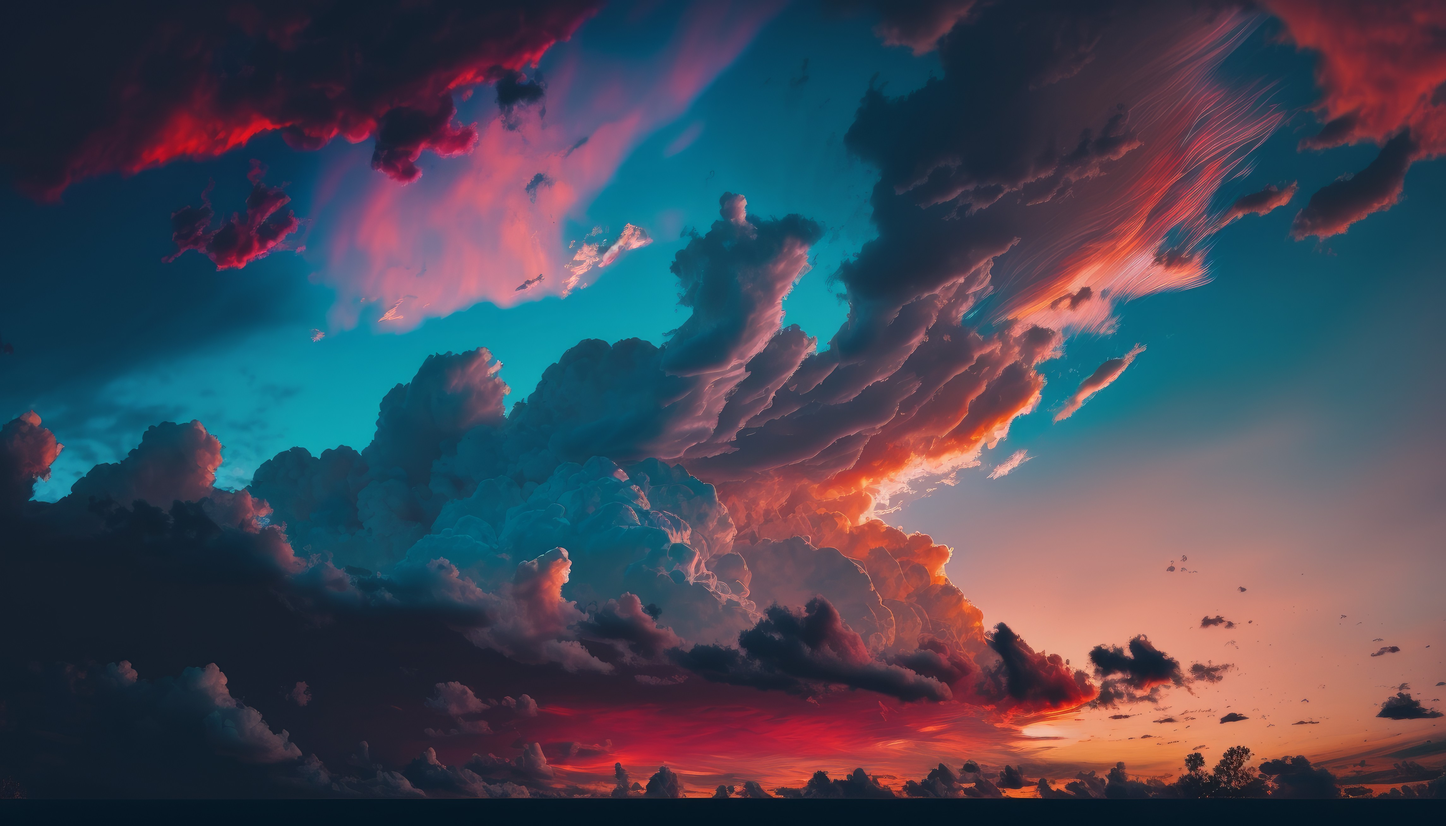
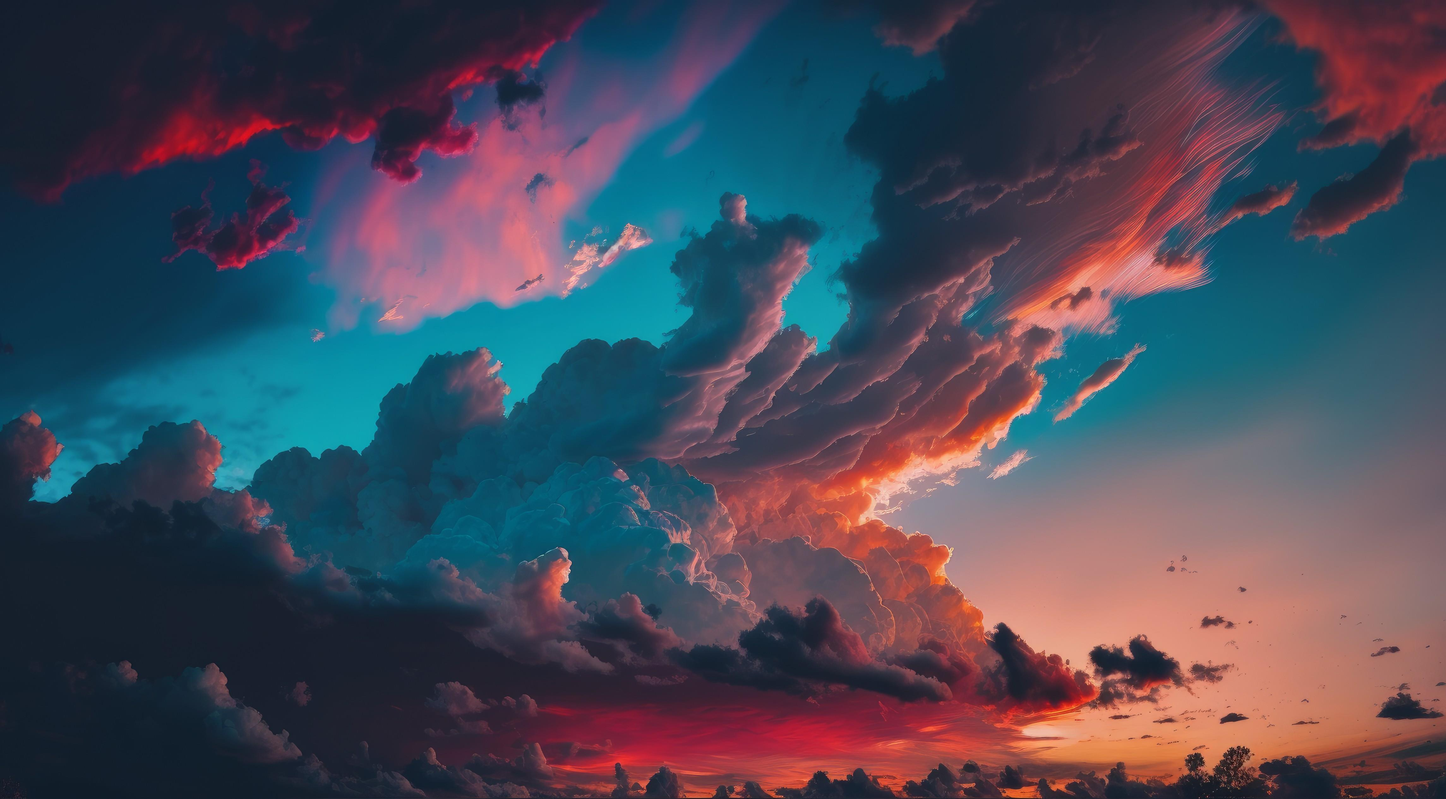
Day 17: Afternoon

diff --git a/index.html b/index.html
@@ -9,7 +9,7 @@
     <title>#100DaysOfCode</title>
   </head>
 
-  <body>
+  <body class="body">
     <main>
       <!-- //! left -->
       <section class="left">
@@ -47,36 +47,34 @@
       </section>
       <!-- //! right -->
       <section class="right">
-        <!-- //* JavaScript logo -->
+        <!-- //* JavaScript logo
         <div class="list--items list--title"><span><img src="https://cdn-icons-png.flaticon.com/512/5968/5968292.png"
               class="js--logo" alt="JavaScript logo"></span> Data Structures Modern Operators and Strings
-        </div>
+        </div> -->
         <section>
           <div class="list--title">📖 New Knowledges</div>
           <ul class="list">
-            <li class="list--items">Optional Chaining</li>
-            <li class="list--items">Looping Objects: Object Keys, Values and Entries</li>
-            <ul class="list list--dark list--nested list--nested--dark">
-              <li class="list--items">Object.keys()</li>
-              <li class="list--items">Object.values()</li>
-              <li class="list--items">Object.entries()</li>
-            </ul>
+            <li class="list--items">CSS background shorthand properties</li>
+            <li class="list--items">CSS setProperty()
+              <!-- <ul class="list list--dark list--nested list--nested--dark">
+                <li class="list--items">Object.keys()</li>
+                <li class="list--items">Object.values()</li>
+                <li class="list--items">Object.entries()</li>
+              </ul> -->
+            </li>
           </ul>
         </section>
         <section>
           <div class="list--title">👨💻 This web page</div>
           <ul class="list list--dark">
-            <li class="list--items"><span class="colored">Fix:</span> day counter calculation
-            </li>
-            <li class="list--items"><span class="colored">Added:</span> background image
-            </li>
-            <li class="list--items"><span class="colored">TODO:</span> auto change background image
-            </li>
-            <!-- <ul class="list list--dark list--nested list--nested--dark">
-              <li class="list--items">Deployed to GitHub pages</li>
-            </ul>
-            <li class="list--items">Refactored some JavaScript codes</li>
-            <li class="list--items"><span class="colored">TODO:</span> media query</li> -->
+            <!-- <li class="list--items"><span class="colored">Fix:</span> day counter calculation
+            </li> -->
+            <li class="list--items"><span class="colored">Refactored: </span>CSS variables &amp; properties</li>
+            <!-- <li class="list--items">background change
+              <ul class="list list--dark list--nested list--nested--dark">
+                <li class="list--items">Deployed to GitHub pages</li>
+              </ul>
+            </li> -->
           </ul>
         </section>
       </section>

diff --git a/css/style.css b/css/style.css
@@ -2,10 +2,11 @@
 
 /*! Variables */
 :root {
+	--clr-main-bg: hsla(0, 0%, 100%, 0.5);
+	--clr-bg-day-left: hsla(0, 0%, 100%, 0.4);
 	--clr-day: hsl(0, 0%, 82%);
-	--clr-day-left: ;
 	--clr-night: hsla(0, 0%, 0.1%, 0.9);
-	--clr-night-right: hsla(0, 0%, 2.3%, 0.9);
+	--clr-bg-night-right: hsla(0, 0%, 2.3%, 0.9);
 	--clr-accent-day: hsl(343, 57%, 50%);
 	--clr-accent-night: hsl(17, 64%, 53%);
 	--clr-bg-day: linear-gradient(to top left, #64abfc 0%, #345df9 100%);
@@ -28,34 +29,33 @@ html {
 	box-sizing: border-box;
 }
 
+a {
+	text-decoration: none;
+	color: var(--clr-haha);
+}
+
 body {
 	font-family: "Nunito", sans-serif;
 	font-weight: 400;
 	height: 100vh;
-	color: var(--clr-default);
 	background: var(--clr-bg-day);
 	display: flex;
 	align-items: center;
 	justify-content: center;
 }
 
-body::after {
-	content: url("../images/night.jpg");
-	/* background: url("../images/night.jpg") right top;
-	background: url("../images/cloud.jpg") right top; */
-	/* background-position: right top; */
-	background-size: cover;
+.body::after {
+	content: "";
 	position: fixed;
 	width: 100%;
 	height: 100%;
-	background-repeat: no-repeat;
 	z-index: -1;
+	background: no-repeat center/cover url("../images/cloud.jpg");
 	opacity: 0.3;
 }
 
-a {
-	text-decoration: none;
-	color: var(--clr-default);
+.body--dark {
+	background: var(--clr-bg-night);
 }
 
 /*! LAYOUT */
@@ -63,12 +63,13 @@ main {
 	position: relative;
 	width: 100rem;
 	height: auto;
-	background-color: rgba(255, 255, 255, 0.5);
+	background-color: var(--clr-main-bg);
 	box-shadow: 0 2.75rem 0 black;
 	border-radius: 2rem;
 	border: 0.75rem solid black;
 	overflow: hidden;
 	display: flex;
+	/* transform: scale(1.5); */
 }
 
 /*! Left */
@@ -81,7 +82,7 @@ main {
 	align-items: flex-start;
 	transition: var(--trans-speed-default);
 	gap: 1rem;
-	background-color: hsla(0, 0%, 100%, 0.4);
+	background-color: var(--clr-bg-day-left);
 }
 
 .left--content {
@@ -309,7 +310,7 @@ For Extra-large size device: 1200px and more */
 	color: var(--clr-day);
 }
 .right--dark {
-	background-color: var(--clr-night-right);
+	background-color: var(--clr-bg-night-right);
 }
 .list--items--dark {
 	color: var(--clr-day);

diff --git a/script/script.js b/script/script.js
@@ -19,9 +19,7 @@ const dayCounter = () => {
 	const dateNow = new Date().getTime() / (1000 * 3600 * 24);
 	const dateComplete = new Date(2023, 07, 14).getTime() / (1000 * 3600 * 24);
 	const remainingDays = dateComplete - dateNow;
-	console.log(remainingDays);
 	const spentDays = Math.ceil(100 - remainingDays);
-	console.log(spentDays);
 	let daysBehind = 2; //TODO add if behind */
 	dayNumber.innerText = `DAY ${spentDays - daysBehind}`;
 };
